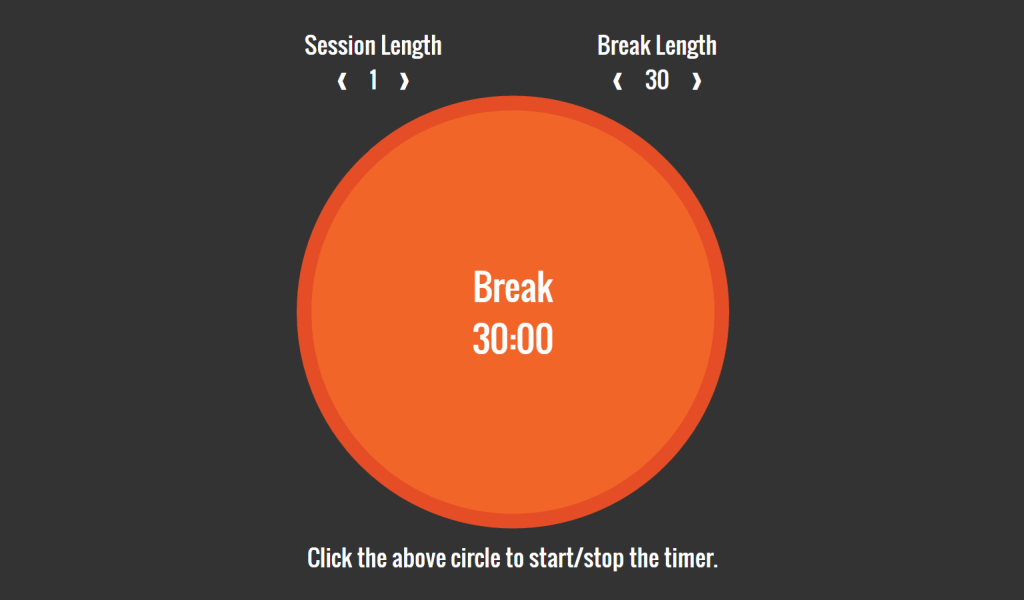
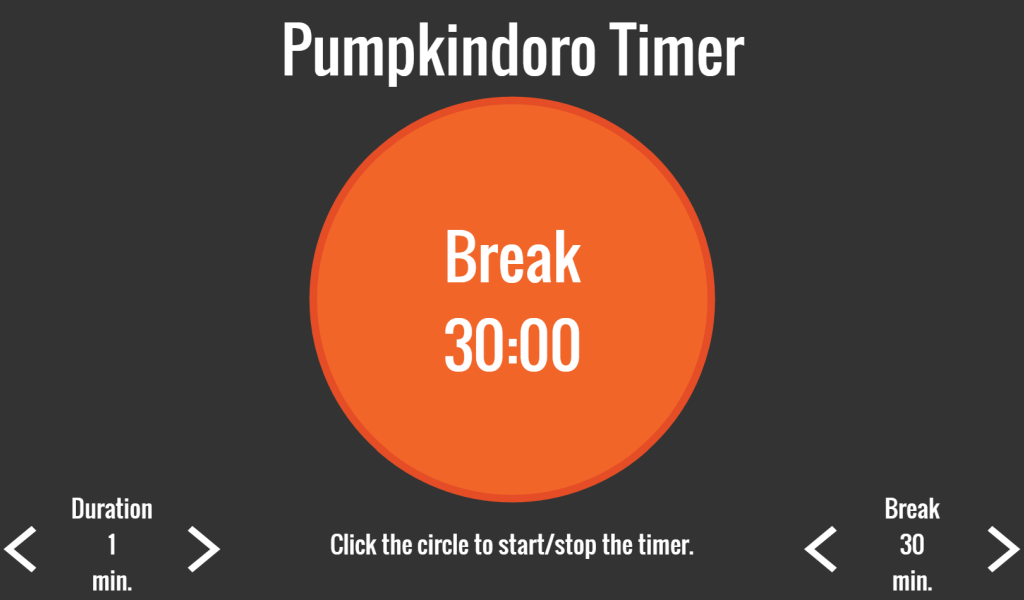
Updated Pumpkindoro

diff --git a/source/portfolio/PumpkindoroTimer/index.html b/source/portfolio/PumpkindoroTimer/index.html
@@ -17,41 +17,45 @@
 
   <body>
 
+    <script type="text/javascript">
+      /*
+            <div class="duration">
+              <div class="name">Session Length</div>
+              <div class="widgets" id="parent-duration">
+                <span class="minus">&#10096;</span>
+                <span class="value">1</span>
+                <span class="plus">&#10097;</span>
+              </div>
+              <div class="name">minutes</div>
+            </div>
+
+            <!-- Instructions -->
+            <div class="instructions">
+              Click the above circle to start/stop the timer.
+            </div>
+
+            <div class="break">
+              <div class="name">Break Length</div>
+              <div class="widgets" id="parent-break">
+                <span class="minus">&#10096;</span>
+                <span class="value">30</span>
+                <span class="plus">&#10097;</span>
+              </div>
+              <div class="name">minutes</div>
+            </div>
+          */
+      </script>
     <!-- Start Main Container -->
     <div id="app-container" class="noselect middle">
 
-      <!-- Controls -->
-      <div class="controls">
-
-        <div class="duration">
-          <div class="name">Session Length</div>
-          <div class="widgets" id="parent-duration">
-            <span class="minus">&#10096;</span>
-            <span class="value">1</span>
-            <span class="plus">&#10097;</span>
-          </div>
-          <div class="name">seconds</div>
-        </div>
-
-        <div class="break">
-          <div class="name">Break Length</div>
-          <div class="widgets" id="parent-break">
-            <span class="minus">&#10096;</span>
-            <span class="value">30</span>
-            <span class="plus">&#10097;</span>
-          </div>
-          <div class="name">seconds</div>
-        </div>
-
-      </div>
-
-      <div class="clearfix"></div>
+      <!-- Title -->
+      <div id="app-title" class="text-center">Pumpkindoro Timer</div>
 
       <!-- Clock -->
-      <div class="clock">
+      <div id="app-clock" class="middle clock">
 
         <!-- Display Session Time -->
-        <div id="display-session" class="container-clockdisplay middle">
+        <div id="display-session" class="container-clockdisplay text-center middle">
           <div class="mode">
             Session
           </div>
@@ -61,7 +65,7 @@
         </div>
 
         <!-- Display Break Time -->
-        <div id="display-break" class="container-clockdisplay middle hidden">
+        <div id="display-break" class="container-clockdisplay text-center middle hidden">
           <div class="mode">
             Break
           </div>
@@ -74,8 +78,39 @@
 
 
 
-      <!-- Instructions -->
-      <div class="instructions">Click the above circle to start/stop the timer.</div>
+      <!-- Controls -->
+      <div id="app-controls" class="controls text-center">
+
+        <div class="control duration">
+          <div class="container-control" id="parent-duration">
+            <div class="minus">&lt;</div>
+            <div class="info">
+              <div class="name">Duration</div>
+              <div class="value">1</div>
+              <div class="name minute">min.</div>
+            </div>
+            <div class="plus">&gt;</div>
+          </div>
+        </div>
+
+        <div class="control instructions">
+          Click the circle to start/stop the timer.
+        </div>
+
+        <div class="control break">
+          <div class="container-control" id="parent-break">
+            <div class="minus">&lt;</div>
+            <div class="info">
+              <div class="name">Break</div>
+              <div class="value">30</div>
+              <div class="name minute">min.</div>
+            </div>
+            <div class="plus">&gt;</div>
+          </div>
+        </div>
+
+      </div>
+
 
     </div>
     <!-- End Main Container -->

diff --git a/source/portfolio/PumpkindoroTimer/stylesheets/stylesheet.css b/source/portfolio/PumpkindoroTimer/stylesheets/stylesheet.css
@@ -8,77 +8,6 @@ body {
   font-family: 'Oswald', sans-serif;
   font-size: 100%; }
 
-@media screen and (min-width: 320px) {
-  .controls {
-    font-size: 1.25em; }
-  .clock {
-    width: 250px;
-    height: 250px;
-    font-size: 2em; }
-  .instructions {
-    font-size: 1.5em; } }
-
-@media screen and (min-width: 480px) {
-  .controls {
-    font-size: 1.25em; }
-  .clock {
-    width: 400px;
-    height: 400px;
-    font-size: 2em; }
-  .instructions {
-    font-size: 1.25em; } }
-
-@media screen and (min-width: 768px) {
-  .controls {
-    font-size: 2em; }
-  .clock {
-    width: 600px;
-    height: 600px;
-    font-size: 3em; }
-  .instructions {
-    font-size: 2em; } }
-
-#app-container {
-  position: absolute;
-  max-width: 100vw; }
-  #app-container .clearfix {
-    clear: both; }
-  #app-container .controls {
-    text-align: center;
-    margin: 0;
-    margin-bottom: 0px; }
-    #app-container .controls .duration {
-      display: inline-block;
-      float: left;
-      padding: 0;
-      margin: 0; }
-    #app-container .controls .break {
-      display: inline-block;
-      float: right;
-      padding: 0;
-      margin: 0; }
-    #app-container .controls .minus, #app-container .controls .plus {
-      padding-left: 25px;
-      padding-right: 25px;
-      cursor: hand; }
-  #app-container .clock {
-    cursor: hand;
-    position: relative;
-    width: 250px;
-    height: 250px;
-    background-color: #333333;
-    margin: 0 auto;
-    text-align: center;
-    border: solid 20px white;
-    border-radius: 100%; }
-
-.container-clockdisplay {
-  position: absolute; }
-
-.instructions {
-  margin-top: 15px;
-  text-align: center; }
-
 .noselect {
   -webkit-touch-callout: none;
   /* iOS Safari */
@@ -95,9 +24,65 @@ body {
                                   not supported by any browser */ }
 
 .middle {
+  position: fixed;
   top: 50%;
   left: 50%;
   transform: translate(-50%, -50%); }
 
+.text-center {
+  text-align: center; }
+
 .hidden {
   visibility: hidden; }
+
+#app-container {
+  width: 99vw;
+  height: 99vh;
+  margin: auto; }
+
+#app-title {
+  font-size: 5vmax; }
+
+#app-clock {
+  border: solid 10px white;
+  width: 65vmin;
+  height: 65vmin;
+  border-radius: 100%;
+  cursor: pointer; }
+  #app-clock .container-clockdisplay {
+    font-size: 10vmin; }
+
+#app-controls {
+  position: absolute;
+  bottom: 0;
+  left: 0;
+  display: table;
+  width: 100%; }
+  #app-controls .control {
+    display: table-cell;
+    width: 33.33%;
+    vertical-align: middle;
+    font-size: 2vmax; }
+    #app-controls .control .container-control {
+      display: table;
+      width: 100%; }
+      #app-controls .control .container-control .minus {
+        display: table-cell;
+        width: 33.33%;
+        text-align: right;
+        vertical-align: middle;
+        font-family: monospace;
+        font-size: 7vmax;
+        cursor: pointer; }
+      #app-controls .control .container-control .info {
+        display: table;
+        width: 100%;
+        font-size: 1em; }
+      #app-controls .control .container-control .plus {
+        display: table-cell;
+        width: 33.33%;
+        text-align: left;
+        vertical-align: middle;
+        font-family: monospace;
+        font-size: 7vmax;
+        cursor: pointer; }

diff --git a/source/portfolio/PumpkindoroTimer/javascript/pomodoro-clock.js b/source/portfolio/PumpkindoroTimer/javascript/pomodoro-clock.js
@@ -35,7 +35,7 @@ function timerSessionFunction() {
       timerSession = null;
 
       // Reset numSecondsSession.
-      numSecondsSession = parseInt($(".duration > .widgets > .value").text()) * 60;
+      numSecondsSession = parseInt($(".duration .info .value").text()) * 60;
 
       // Update label on clock.
       $("#display-session > .display").eq(0).text(formatMinutesCountdown(numSecondsSession));
@@ -80,7 +80,7 @@ function timerBreakFunction() {
       timerBreak = null;
 
       // Reset numSecondsBreak.
-      numSecondsBreak = parseInt($(".break > .widgets > .value").text()) * 60;
+      numSecondsBreak = parseInt($(".break .info .value").text()) * 60;
 
       // Update label on clock.
       $("#display-break > .display").text(formatMinutesCountdown(numSecondsSession));
@@ -133,7 +133,7 @@ function plusMinusControls() {
     var className = $(this).attr("class");
 
     // Find the parent, and access its child .value button.
-    var btnValue = $(this).parent().children(".value");
+    var btnValue = $(this).siblings(".info").children(".value");
 
     // Get the container div node.
     //
@@ -141,6 +141,7 @@ function plusMinusControls() {
     //
     // Split the id by - and take last element.
     var parentId = $(this).parent("div").attr("id");
+
     parentId = parentId.split("-").slice(-1)[0];
 
     // Get the current value;
@@ -210,6 +211,9 @@ function plusMinusControls() {
 
 $(document).ready(function() {
 
+  // Control arrow font size;
+  //$(".minus")
+
   // Current state of the clock.
   active = false;
 
@@ -227,7 +231,6 @@ $(document).ready(function() {
   // Increments/Decrements the .value button text by 1 when the
   // .minus or .plus buttons are pressed.
   $(".minus, .plus").on("click", plusMinusControls);
-
 
   $(".clock").on("click", function() {
 
